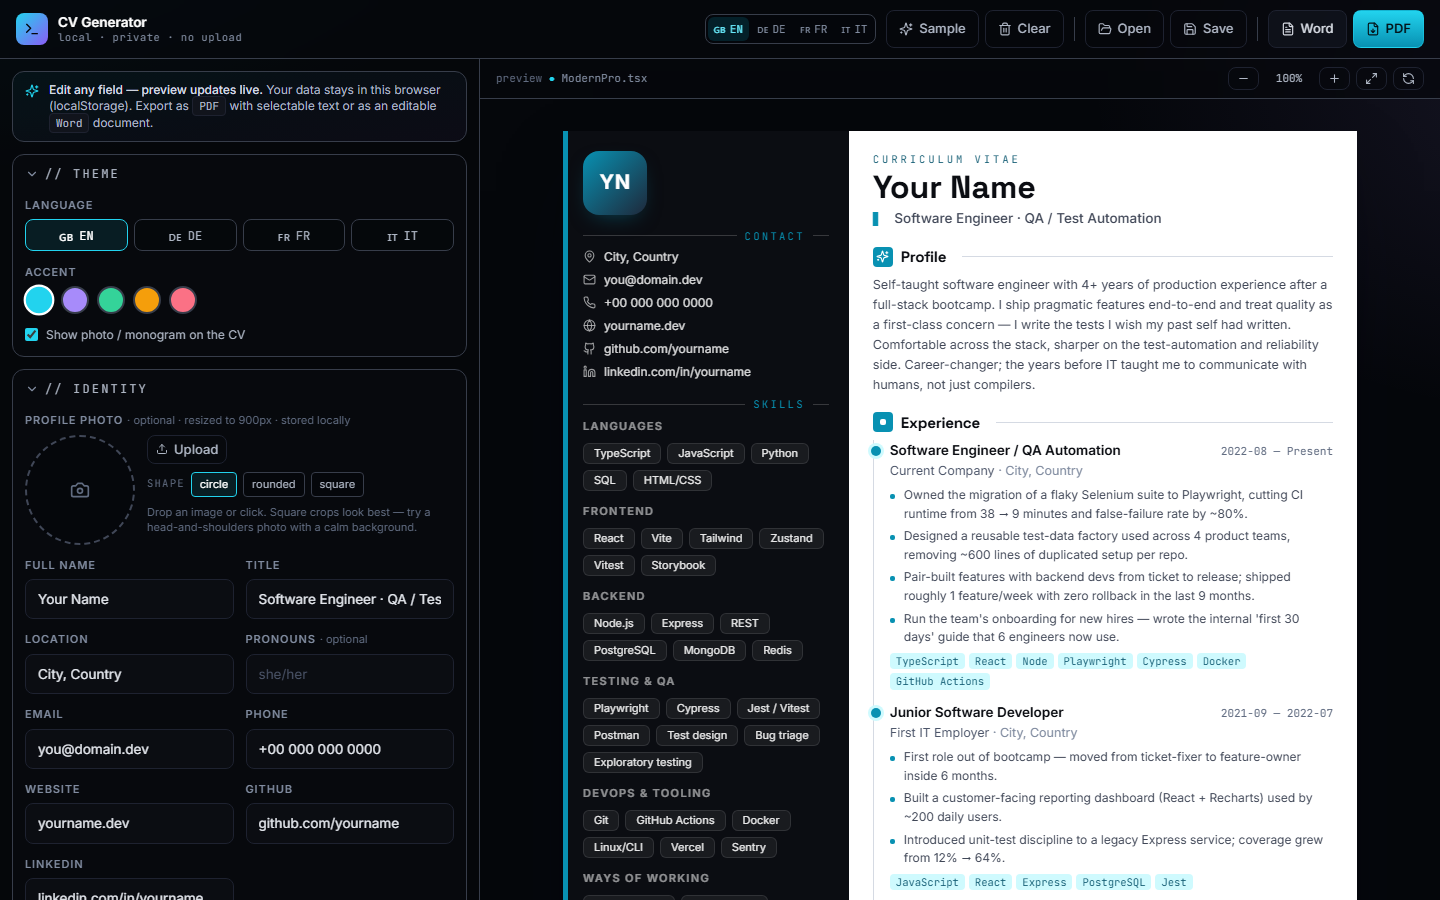
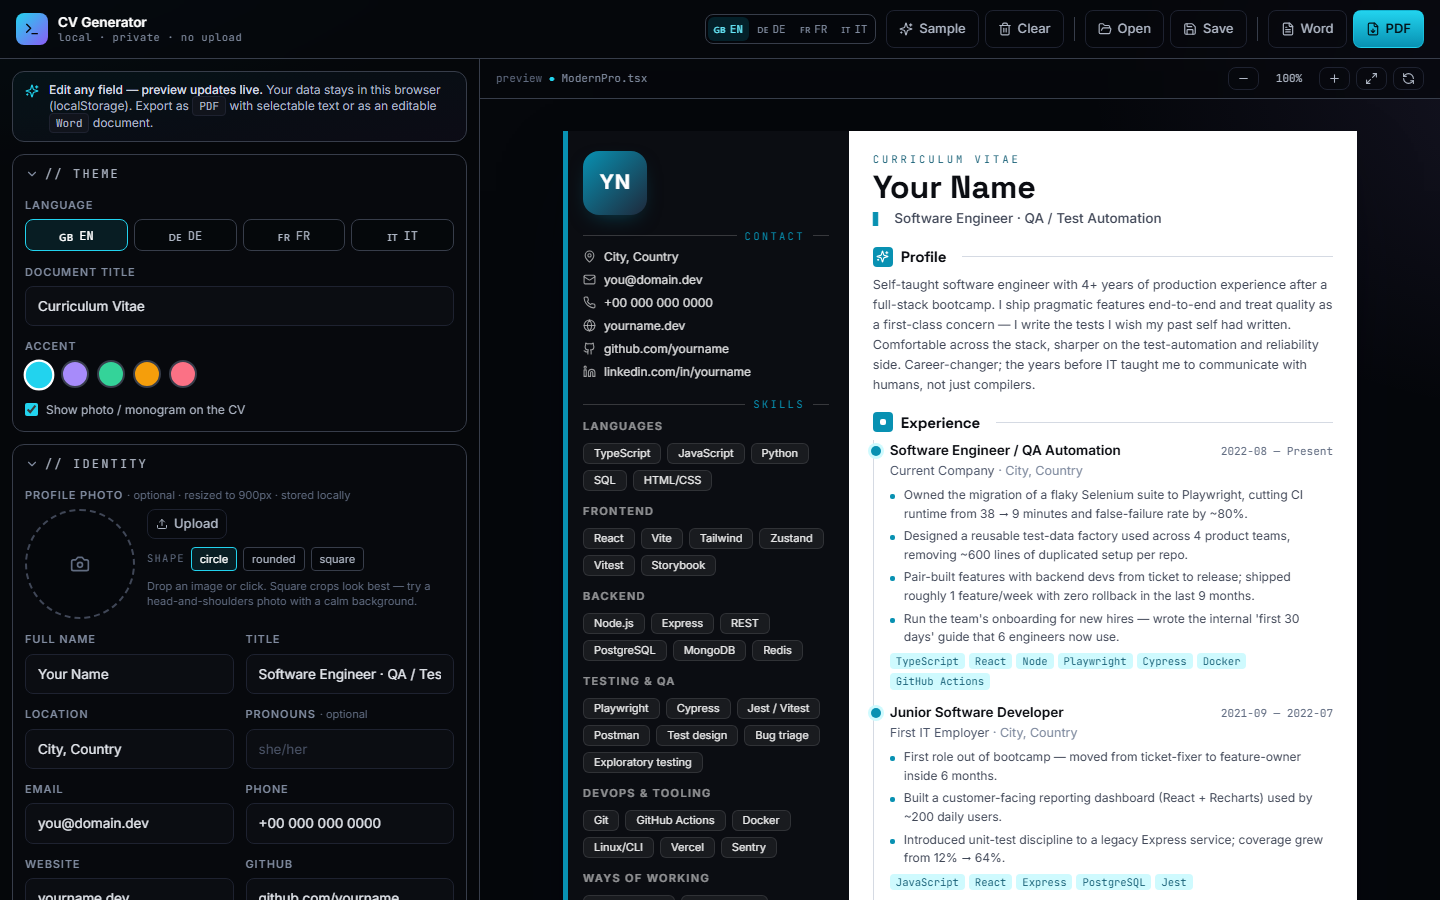
Refactor code structure for improved readability and maintainability

diff --git a/README.md b/README.md
@@ -10,14 +10,17 @@ A browser-based CV editor with a live preview, PDF and Word export, and an Engli
 
 ## Features
 
-- Live preview while you type
-- Sections are grouped by column (main column on the right, sidebar on the left) and can be reordered within it; the preview, PDF and Word export follow the same order
-- Section headings can be renamed, and you can add your own sections (text, keywords or entries) to either column
+- Live preview while you type, with a sample CV in each of the four languages
+- Sections are grouped by column, main column on the right and sidebar on the left, and move with arrows within their column. Name and contact stay at the top
+- Every section heading can be renamed
+- Add your own sections to either column as text, keywords or entries, and delete them again
 - Editable document title above the name, "Curriculum Vitae" by default
 - PDF export through the browser's print dialog, with selectable text and A4 pages where the sidebar and main column break independently
-- Word (.docx) export as a simple text document for applicant tracking systems
+- Word (.docx) export as a simple text document for applicant tracking systems, with the main column first and the sidebar after it
 - Save and open your CV as a `.cvdata.json` file, with validation before anything is replaced
 - Photo upload, resized to 900 px and stored as JPEG
+
+![Editor with sections grouped by column and a custom section in each column](docs/sections.png)
 
 ## Run locally
 
@@ -32,11 +35,11 @@ The app runs at http://localhost:5173.
 
 ## Tests
 
-| Layer    | Location                 | Tool                           | What it checks                                                                                                                                       |
-| -------- | ------------------------ | ------------------------------ | ---------------------------------------------------------------------------------------------------------------------------------------------------- |
-| Unit     | `tests/unit`             | Vitest                         | File and storage validation, ID repair, photo restrictions, overwrite detection, store actions, pagination, Word output in all four languages        |
-| UI flows | `tests/e2e`              | Playwright Test (Chromium)     | Editing and reload, language switch, photo upload and removal, save/open round trip, invalid files, keyboard-safe dialogs, blocked storage, failed exports |
-| PDF      | `scripts/verify-pdf.mjs` | Playwright, PDF.js, Chrome     | The real PDF: selectable text, every text block exactly once across pages, Unicode, page count, links, and print dialog cleanup                      |
+| Layer    | Location                 | Tool                       | What it checks                                                                                                                                                              |
+| -------- | ------------------------ | -------------------------- | --------------------------------------------------------------------------------------------------------------------------------------------------------------------------- |
+| Unit     | `tests/unit`             | Vitest                     | File and storage validation, ID repair, photo restrictions, overwrite detection, store actions, section order and custom sections, pagination, Word output in all four languages |
+| UI flows | `tests/e2e`              | Playwright Test (Chromium) | Editing and reload, language switch, moving and renaming sections, custom sections, clearing, photo upload and removal, save/open round trip, invalid files, keyboard-safe dialogs, blocked storage, failed exports |
+| PDF      | `scripts/verify-pdf.mjs` | Playwright, PDF.js, Chrome | The real PDF: selectable text, every text block exactly once across pages, reordered and custom sections, Unicode, page count, links, and print dialog cleanup              |
 
 ```sh
 npm run typecheck
@@ -60,6 +63,7 @@ CI runs all of the above on every pull request and push to `master`, and deploys
 
 - Clearing the browser's site data deletes the CV. Use **Save** to keep a backup.
 - There is one CV template. The Word export does not copy the two-column layout.
+- Built-in sections keep their column. Only custom sections can go in either column.
 - PDF export uses the browser's print dialog and works best in Chrome or Edge. Choose A4, 100 % scale and no headers or footers.
 - The editor is built for desktop screens.
 - Fonts load from Google Fonts. Without a connection the app falls back to system fonts.
@@ -67,18 +71,14 @@ CI runs all of the above on every pull request and push to `master`, and deploys
 
 ## Project structure
 
-| Location                                 | Responsibility                                       |
-| ---------------------------------------- | ---------------------------------------------------- |
-| `src/types.ts`                           | CV model                                             |
-| `src/data/`                              | Validation, defaults, sample data, browser storage   |
-| `src/store.ts`                           | Document state and persistence                       |
-| `src/components/forms/`                  | One editor section per file                          |
-| `src/components/templates/ModernPro.tsx` | CV preview                                           |
-| `src/utils/`                             | Data files, PDF and Word export, pagination          |
-
-## How it was built
-
-I built this project with the help of AI coding assistants. I set the scope and the test approach, and reviewed the changes.
+| Location                                 | Responsibility                                                      |
+| ---------------------------------------- | ------------------------------------------------------------------- |
+| `src/types.ts`                           | CV model                                                            |
+| `src/data/`                              | Validation, defaults, section layout, sample data, browser storage  |
+| `src/store.ts`                           | Document state and persistence                                      |
+| `src/components/forms/`                  | One editor section per file, column groups and custom sections      |
+| `src/components/templates/ModernPro.tsx` | CV preview                                                          |
+| `src/utils/`                             | Section placement, data files, PDF and Word export, pagination      |
 
 ## License
 
